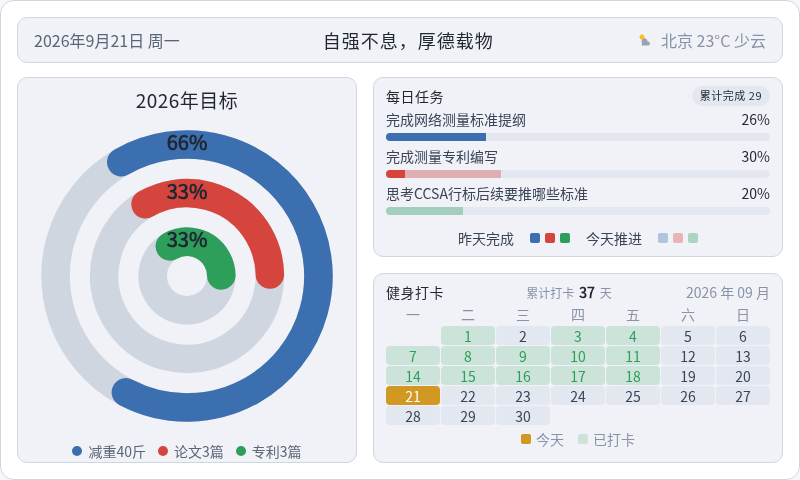
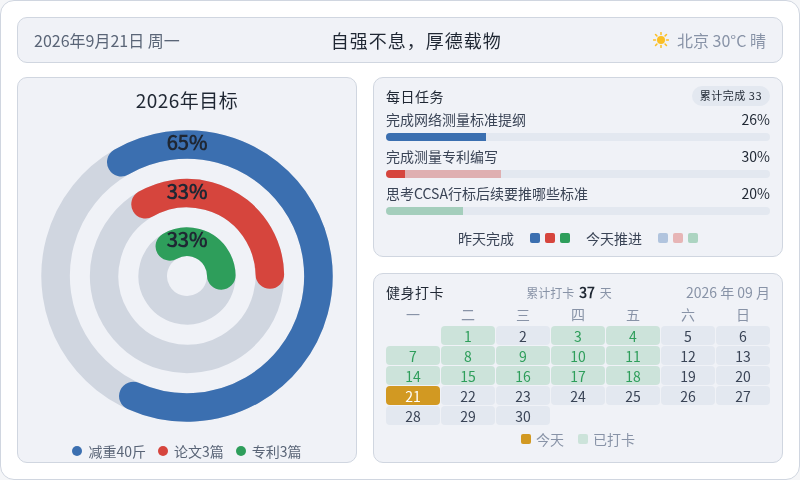
chore: 每日看板刷新 2026-09-21

diff --git a/output/dashboard/dashboard.html b/output/dashboard/dashboard.html
@@ -188,8 +188,8 @@
       <div class="tb-date" id="tbDate">2026年9月21日 周一</div>
       <div class="tb-slogan">自强不息，厚德载物</div>
       <div class="tb-weather">
-        <svg width="16" height="16" viewBox="0 0 16 16" aria-hidden="true"><circle cx="5" cy="5" r="2.5" fill="#fbbf24"/><path d="M5 11 a3 3 0 1 1 5.5 -1.5 h0.5 a2 2 0 1 1 0 4 H5 a2.5 2.5 0 0 1 0 -2.5z" fill="#9ca3af"/></svg>
-        <span>北京 23°C 少云</span>
+        <svg width="16" height="16" viewBox="0 0 16 16" aria-hidden="true"><circle cx="8" cy="8" r="4" fill="#fbbf24"/><g stroke="#fbbf24" stroke-width="1.5" stroke-linecap="round"><line x1="8" y1="0.5" x2="8" y2="2.5"/><line x1="8" y1="13.5" x2="8" y2="15.5"/><line x1="0.5" y1="8" x2="2.5" y2="8"/><line x1="13.5" y1="8" x2="15.5" y2="8"/><line x1="2.5" y1="2.5" x2="3.9" y2="3.9"/><line x1="12.1" y1="12.1" x2="13.5" y2="13.5"/><line x1="13.5" y1="2.5" x2="12.1" y2="3.9"/><line x1="3.9" y1="12.1" x2="2.5" y2="13.5"/></g></svg>
+        <span>北京 30°C 晴</span>
       </div>
     </div>
     <div class="content">
@@ -200,9 +200,9 @@
           <svg viewBox="0 0 210 210" width="300" height="300" role="img" aria-label="三环进度仪表盘">
             <title>2026年目标三环进度</title>
             <g transform="rotate(-120 105 105)">
-              <circle cx="105" cy="105" r="92" fill="none" stroke="#d0d6e0" stroke-width="20"/><circle cx="105" cy="105" r="92" fill="none" stroke="#3b6fb0" stroke-width="20" stroke-linecap="round" stroke-dasharray="381.52 578.05"/><circle cx="105" cy="105" r="58" fill="none" stroke="#d0d6e0" stroke-width="20"/><circle cx="105" cy="105" r="58" fill="none" stroke="#d6453d" stroke-width="20" stroke-linecap="round" stroke-dasharray="120.26 364.42"/><circle cx="105" cy="105" r="24" fill="none" stroke="#d0d6e0" stroke-width="20"/><circle cx="105" cy="105" r="24" fill="none" stroke="#2e9e5b" stroke-width="20" stroke-linecap="round" stroke-dasharray="49.76 150.80"/>
+              <circle cx="105" cy="105" r="92" fill="none" stroke="#d0d6e0" stroke-width="20"/><circle cx="105" cy="105" r="92" fill="none" stroke="#3b6fb0" stroke-width="20" stroke-linecap="round" stroke-dasharray="375.73 578.05"/><circle cx="105" cy="105" r="58" fill="none" stroke="#d0d6e0" stroke-width="20"/><circle cx="105" cy="105" r="58" fill="none" stroke="#d6453d" stroke-width="20" stroke-linecap="round" stroke-dasharray="120.26 364.42"/><circle cx="105" cy="105" r="24" fill="none" stroke="#d0d6e0" stroke-width="20"/><circle cx="105" cy="105" r="24" fill="none" stroke="#2e9e5b" stroke-width="20" stroke-linecap="round" stroke-dasharray="49.76 150.80"/>
             </g>
-            <text x="105" y="13" text-anchor="middle" dominant-baseline="middle" fill="#1f2733" font-size="14" font-weight="700">66%</text><text x="105" y="47" text-anchor="middle" dominant-baseline="middle" fill="#1f2733" font-size="14" font-weight="700">33%</text><text x="105" y="81" text-anchor="middle" dominant-baseline="middle" fill="#1f2733" font-size="14" font-weight="700">33%</text>
+            <text x="105" y="13" text-anchor="middle" dominant-baseline="middle" fill="#1f2733" font-size="14" font-weight="700">65%</text><text x="105" y="47" text-anchor="middle" dominant-baseline="middle" fill="#1f2733" font-size="14" font-weight="700">33%</text><text x="105" y="81" text-anchor="middle" dominant-baseline="middle" fill="#1f2733" font-size="14" font-weight="700">33%</text>
           </svg>
         </div>
         <div class="legend"><div class="legend-row"><span class="dot" style="background:#3b6fb0"></span><span class="lg-name">减重40斤</span></div><div class="legend-row"><span class="dot" style="background:#d6453d"></span><span class="lg-name">论文3篇</span></div><div class="legend-row"><span class="dot" style="background:#2e9e5b"></span><span class="lg-name">专利3篇</span></div></div>
@@ -210,7 +210,7 @@
     </div>
     <div class="col-right">
       <div class="panel tasks-panel">
-        <div class="panel-title" style="color:#1f2733">每日任务<span class="task-done-count">累计完成  29</span></div>
+        <div class="panel-title" style="color:#1f2733">每日任务<span class="task-done-count">累计完成  33</span></div>
         <div class="task">
           <div class="task-head"><span style="color:#3a4456">完成网络测量标准提纲</span><span class="task-val" style="color:#1f2733">26%</span></div>
           <div class="bar">
